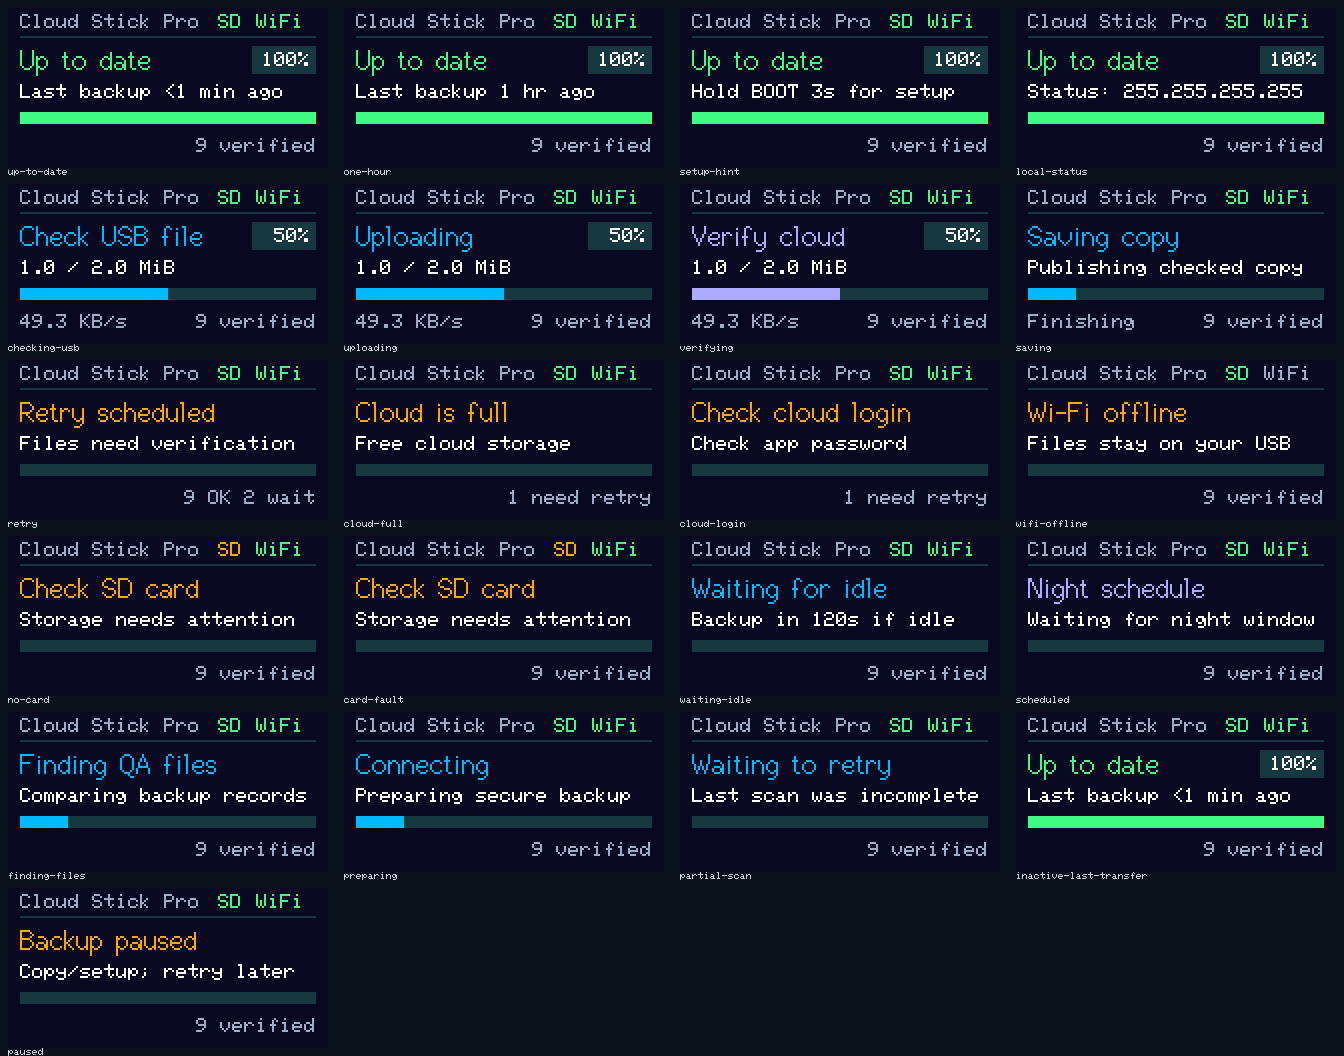
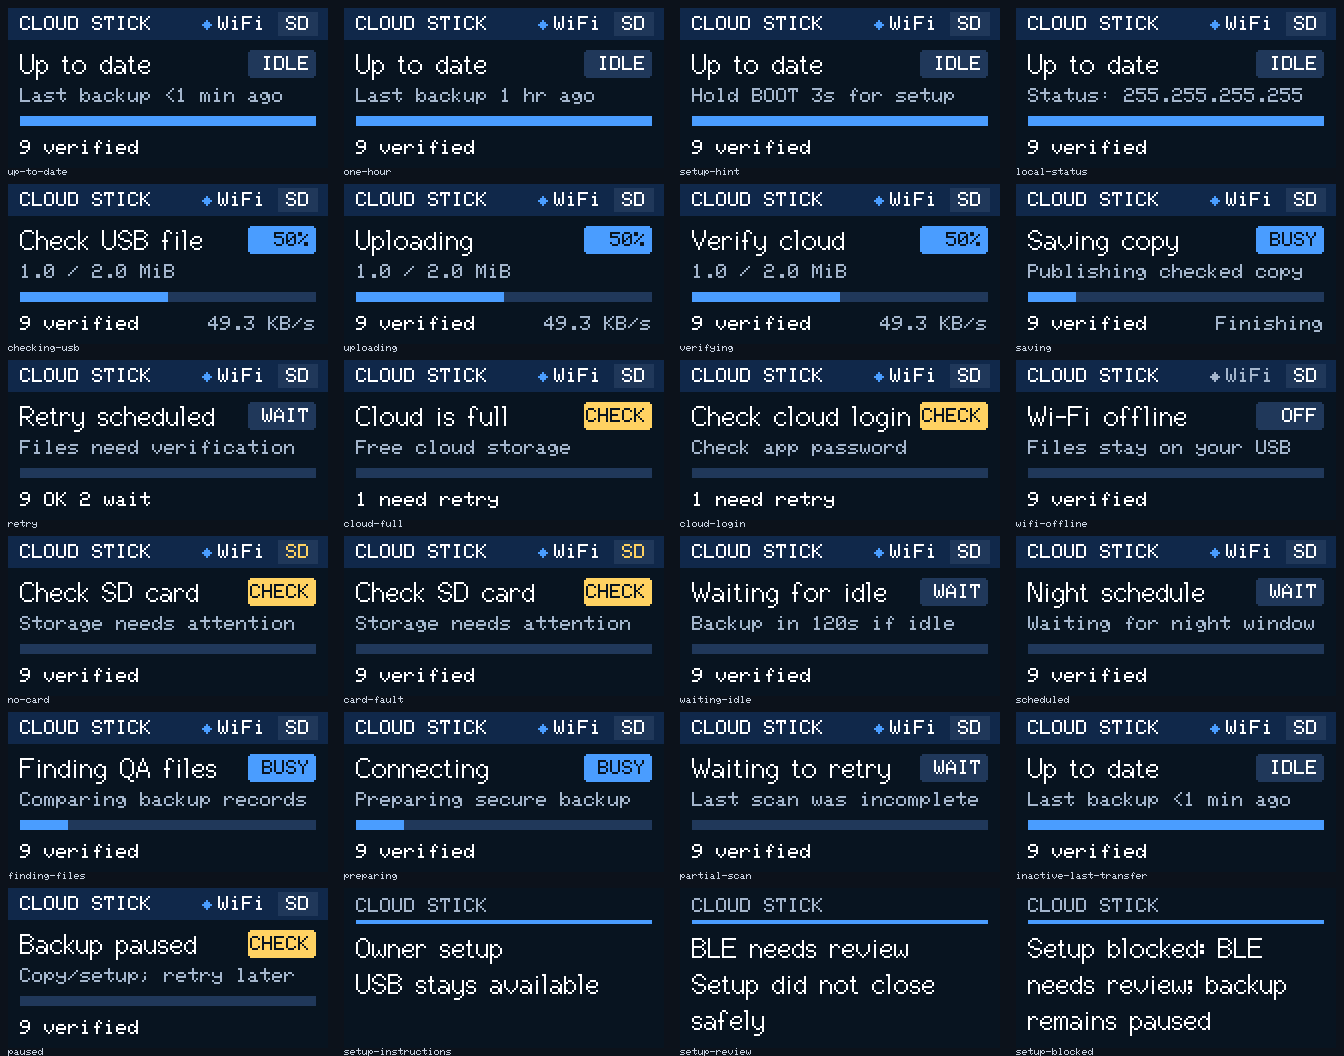
Show modern setup, Android and LCD interfaces with measured progress

diff --git a/README.md b/README.md
@@ -48,7 +48,7 @@ not completed hardware acceptance or a live account.
 
 ### Desktop
 
-![Desktop status and troubleshooting preview](docs/images/desktop-setup.png)
+![Modern desktop setup wizard preview](docs/images/desktop-setup.png)
 
 ### Android
 
@@ -66,11 +66,20 @@ not completed hardware acceptance or a live account.
   prove content is unchanged. Missing evidence falls back to full checking.
 * Avoid redundant Bluetooth reads and load optional history only when requested.
 * Make current activity, saved results and incomplete scans visibly different.
+* Modernize the desktop wizard, Android recorded-results view and LCD together.
 * Keep source, tests, guides, ordered revision notes and release manifests together.
 
-The preserved firmware baseline is `0.4.1-setup-dev`; the new firmware candidate
-is `0.4.2-incremental-dev`. Desktop `0.5.1` and Android `0.1.1` are separate app
-revisions. App installation does not update the dongle.
+Firmware `0.4.2-incremental-dev` is installed on the development board. Two
+automatic 2 MiB synthetic PDF backups passed independent full cloud readback.
+The modern LCD image `0.4.3-ui-dev` is built; its protected installation is in
+progress. Modern desktop `0.5.3` is built, installed locally and integrity/smoke
+verified; Android `0.1.2` is built and signed,
+with exact-version phone acceptance pending. Windows `0.5.3` uses the shared
+interface/build recipe; a native Windows binary is not claimed. App installation
+does not update the dongle.
+
+Measured upload rate is still approximately **50–54 KiB/s**. The incremental
+change reduces repeated local checking; it is not a new raw upload-speed gain.
 
 ## Supported scope and limits
 
@@ -101,4 +110,3 @@ The original README declares MIT and links a `LICENSE` file, but that file is
 absent from the official repository at the reviewed commit. No replacement
 upstream copyright notice or blanket project license has been invented here.
 Source/binary redistribution remains pending clarification of that missing text.
-
